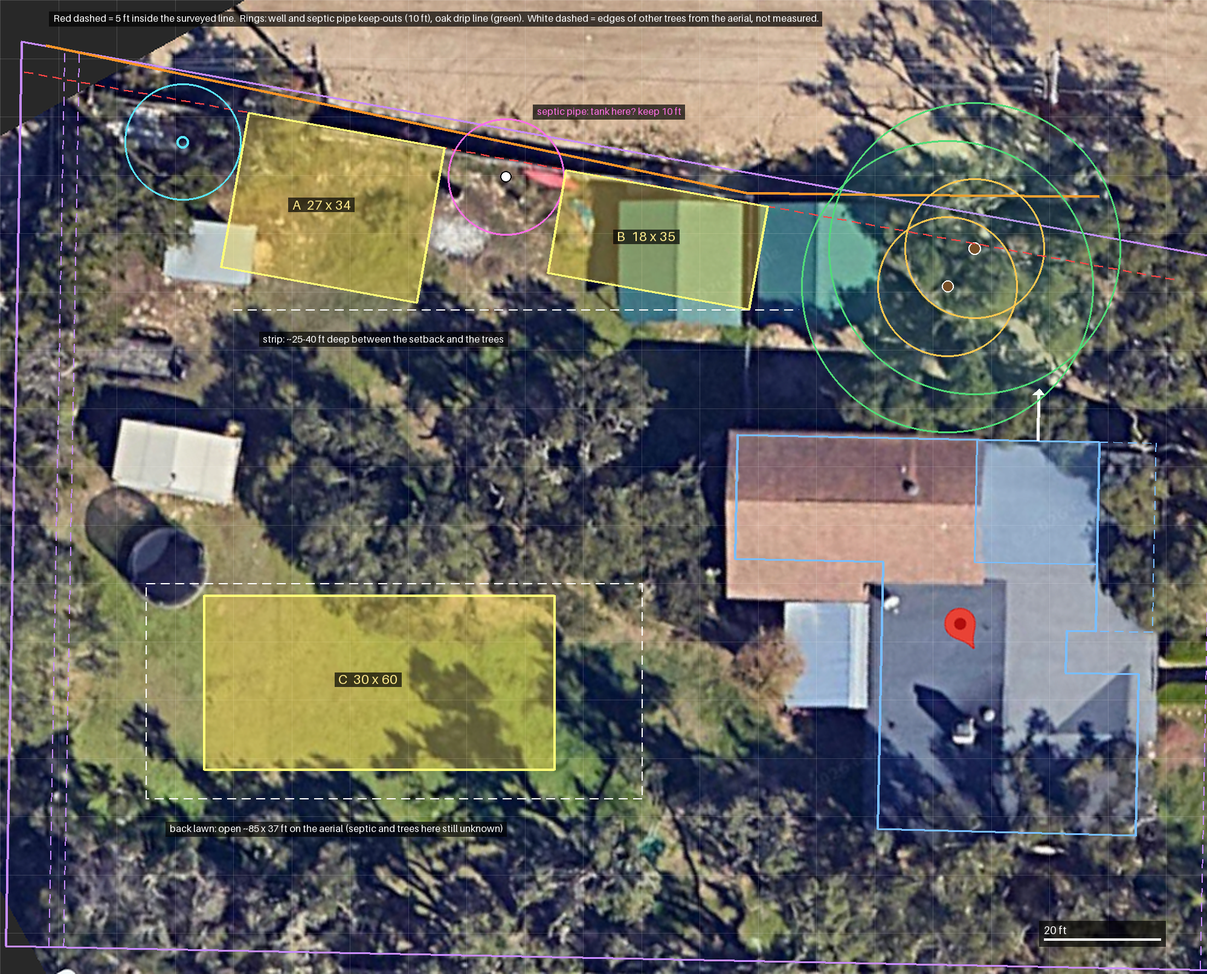
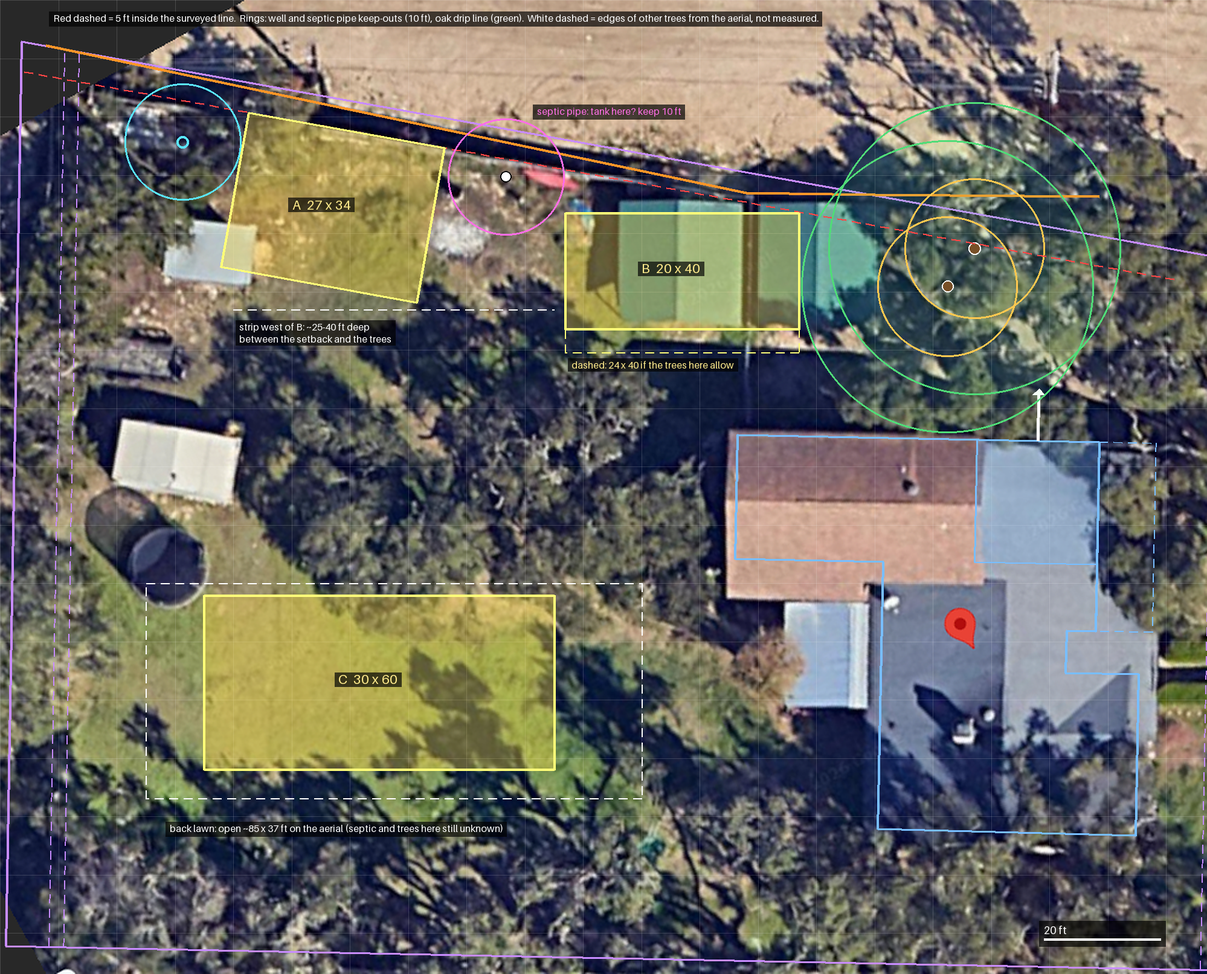
Site B fits a 20x40 (maybe 24x40) square to the house
The earlier 18x35 wrongly applied the strip's tree line south of the old
carport, where the open lane to the house actually is. A 20x40 at x
152-192 clears the surveyed line (5.3 ft), septic pipe (12 ft), oak drip
line (by ~0.4 ft) and house (18 ft); 24x40 if the trees at its SW corner
allow. Notes record the tight spots and the septic truck's hose run.

Claude-Session: https://claude.ai/code/session_018cHe8XhgQq9yhHiRQpWsrY

Changed region(s): [[0.4344, 0.1551, 0.6827, 0.4032], [0.1862, 0.3102, 0.4344, 0.3722]]

diff --git a/tools/envelope_plan.py b/tools/envelope_plan.py
@@ -30,6 +30,11 @@ THETA = math.atan2(FN[1] - RN[1], FN[0] - RN[0])
 ALONG = (math.cos(THETA), math.sin(THETA))
 INWARD = (-math.sin(THETA), math.cos(THETA))  # into the lot (site y grows southward)
 
+# Site B, square to the house, as far east as the oak's drip line allows. South of it is the
+# open lane to the house (cars used it), so it can deepen to 24 ft if the trees at its
+# south-west corner allow: 14 ft would remain to the house wall.
+B_24X40 = [(152, 131.5), (192, 131.5), (192, 155.5), (152, 155.5)]
+
 # Edges of the other trees, read off the aerial (not measured, +/-5 ft).
 STRIP_TREE_EDGE_Y = 148.0
 BACK_LAWN_OPEN = [(80, 195), (165, 195), (165, 232), (80, 232)]
@@ -68,12 +73,13 @@ def main() -> None:
     plan.line([setback_point(60), setback_point(258)], RED, width=3, dash=True)
     circle(plan, well, KEEP_OUT, outline=CYAN, width=3)
     circle(plan, pipe, KEEP_OUT, outline=MAGENTA, width=3)
-    plan.line([(95, STRIP_TREE_EDGE_Y), (192, STRIP_TREE_EDGE_Y)], WHITE, width=2, dash=True)
+    plan.line([(95, STRIP_TREE_EDGE_Y), (150, STRIP_TREE_EDGE_Y)], WHITE, width=2, dash=True)
+    plan.poly(B_24X40, YELLOW, width=2, dash=True)
     plan.poly(BACK_LAWN_OPEN, WHITE, width=2, dash=True)
 
     candidates = {
         "A  27 x 34": line_rect(98.6, 34, 27),
-        "B  18 x 35": line_rect(153, 35, 18),
+        "B  20 x 40": [(152, 131.5), (192, 131.5), (192, 151.5), (152, 151.5)],
         "C  30 x 60": [(90, 197), (150, 197), (150, 227), (90, 227)],
     }
     for name, poly in candidates.items():
@@ -84,7 +90,8 @@ def main() -> None:
 
     plan.label(64, 97, "Red dashed = 5 ft inside the surveyed line.  Rings: well and septic pipe keep-outs (10 ft), "
                        "oak drip line (green).  White dashed = edges of other trees from the aerial, not measured.", size=16)
-    plan.label(100, 152, "strip: ~25-40 ft deep between the setback and the trees", fill=WHITE, size=16)
+    plan.label(96, 150, "strip west of B: ~25-40 ft deep\nbetween the setback and the trees", fill=WHITE, size=16)
+    plan.label(153, 156.5, "dashed: 24 x 40 if the trees here allow", fill=(255, 235, 140), size=16)
     plan.label(147, 113, "septic pipe: tank here? keep 10 ft", fill=MAGENTA, size=16)
     plan.label(84, 236, "back lawn: open ~85 x 37 ft on the aerial (septic and trees here still unknown)", fill=WHITE, size=16)
     plan.scale_bar()

diff --git a/site/notes.md b/site/notes.md
@@ -210,11 +210,20 @@ These assume:
 | Option | Where | Size | Notes |
 |---|---|---|---|
 | A | Strip, west of the septic pipe | ~27 × 34 ft (~900 sq ft) | Between the well and the pipe; the drainfield could be here |
-| B | Strip, east of the pipe (the old carport spot) | ~18 × 35 ft (~630 sq ft) | Cars parked here for years, so probably no drainfield |
+| B | The old carport spot, shifted ~9 ft west and square to the house | **20 × 40 ft** (800 sq ft); **24 × 40** if the trees at its SW corner allow | Cars parked here for years, so probably no drainfield. Tight spots below. |
 | C | Open back lawn behind the house | ~30 × 60 ft (~1,800 sq ft), maybe ~35 × 75 | Largest; septic and tree edges there not yet checked; access by concrete pump hose |
 
-- **The strip can't take one large building:** the septic pipe's keep-out splits it, and
-  the strip narrows to ~18–25 ft toward the oak.
+- **Site B, 20 × 40** (x 152–192, y 131.5–151.5):
+  - 5.3 ft from the surveyed line and ~3.5 ft from the fence at its bend.
+  - 12 ft from the septic pipe and 18 ft from the house.
+  - Its east end is only ~0.4 ft outside the oak's drip line. Shifting it ~2 ft west (still
+    10 ft from the pipe) gives the roots room for the slab edge and forms; hand-dig or
+    air-spade that edge.
+  - The old canopies' east end sat ~12.5 ft from the near trunk, right at the no-dig core.
+  - The septic truck can park in the lane between B and the house, ~40 ft of hose from
+    the pipe.
+- **The strip can't take one large building:** the septic pipe's keep-out splits it. West of
+  the pipe (A) is ~27 × 34; east of it (B) is ~20 × 40, possibly 24 × 40.
 - **A "rather large" building most likely means the back lawn (C).** To confirm it:
   - find out whether the drainfield runs that way;
   - tape the lawn's tree edges (worksheet T11–T15).
